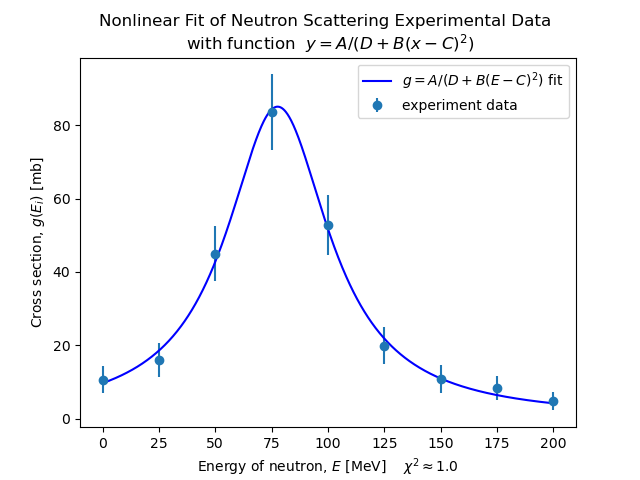
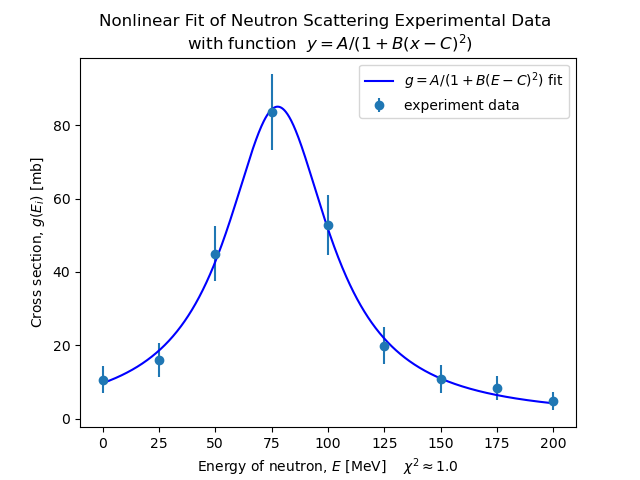
Assignment 3 parts 3, 4, 5.

diff --git a/03/03_03_test_quadratic_polynomial.py b/03/03_03_test_quadratic_polynomial.py
@@ -8,9 +8,8 @@
 from pylab import *
 from scipy.optimize import curve_fit   # chi squared fitting
 
-def func(x,a,b,c,d):   # define functional form
-    return a/(d+b*(x-c)**2)
-    # return a + b*x + c*x*x
+def func(x,a,b,c):   # define functional form
+    return a + b*x + c*x*x
 
 NMAX = 1000  # max number of input points
 
@@ -27,42 +26,41 @@ inputfile.close()
 # print(r)
 
 m = 0
-k = 1.13  # manually adjusted
 for line in r:
     print(line)
     s = line.split() # split line and split into list of items(assume items separated by spaces)
     xin[m] = s[0] # first number in each line is the x value
     yin[m] = s[1]
-    sig[m] = k*sqrt(yin[m]) # was sig[m] = s[2]
+    sig[m] = sqrt(yin[m]) # was sig[m] = s[2]
     m+=1         # m is total number of input data points
                  # will be stored in xin[0]..xin[n-1],yin[0]..yin[n-1]
 
-init_abcd = [80,1,75,1]
 
-popt,pcov = curve_fit(func, xin[0:m], yin[0:m], p0=init_abcd, sigma=sig[0:m])
 
-print("best fit parameters a,b,c,d =", popt)
+popt,pcov = curve_fit(func, xin[0:m], yin[0:m], p0=[1,2,0], sigma=sig[0:m])
+
+print("best fit parameters a,b,c =", popt)
 
 print("covariance matrix for the parameters a,b,c =\n",pcov)
 
-print("uncertainties in parameters =",sqrt(abs(diag(pcov))))
+print("uncertainties in parameters =",sqrt(diag(pcov)))
 
 xvalues = linspace(0,200,1000)
-yvalues = func(xvalues, popt[0], popt[1], popt[2], popt[3])
+yvalues = func(xvalues, popt[0], popt[1], popt[2])
 
-chi2=0
-yfit = func(xin, popt[0], popt[1], popt[2], popt[3])
+chi2 = 0
+yfit = func(xin, popt[0], popt[1], popt[2])
 for i in range(0, m):
     sig2 = sig[i] * sig[i]
-    chi2 += ((yin[i] - yfit[i])**2)/sig2
+    chi2 += ((yin[i] - yfit[i]) ** 2) / sig2
 
 print('chi^2 = ', chi2)
 
 errorbar(xin[0:m],yin[0:m],sig[0:m],fmt="o",label="experiment data")
-plot(xvalues,yvalues,"b-",label=r'$ g = A / (D + B {(E-C)}^2 )$ fit')
-title('Nonlinear Fit of Neutron Scattering Experimental Data \n'+r' with function  $y = A / (D + B {(x-C)}^2 )$')
+plot(xvalues,yvalues,"b-",label="quadratic fit")
+title('Nonlinear Fit of Neutron Scattering Experimental Data \n'+r' with function  $y = A + B x + C x^2$')
 ylabel( 'Cross section, '+ r'$g(E_i)$ [mb]')
-xlabel( 'Energy of neutron, $E$ [MeV]   ' + r' $\chi^2 \approx $' + str(round(chi2,2)))
+xlabel( 'Energy of neutron, $E$ [MeV] '+ r'   $\chi^2 \approx $' + str(round(chi2,2)))
 legend(loc="upper right")
-savefig('03_03_abcd.png')
+savefig('03_03_test_quadratic_abc.png')
 show()

diff --git a/03/03_05.py b/03/03_05.py
@@ -8,8 +8,8 @@
 from pylab import *
 from scipy.optimize import curve_fit   # chi squared fitting
 
-def func(x,a,b,c):   # define functional form
-    return a/(1+b*(x-c)**2)
+def func(x,a,b,c,d):   # define functional form
+    return a/(d+b*(x-c)**2)
     # return a + b*x + c*x*x
 
 NMAX = 1000  # max number of input points
@@ -27,7 +27,7 @@ inputfile.close()
 # print(r)
 
 m = 0
-k = 1.13 # manually adjusted
+k = 1.13  # manually adjusted
 for line in r:
     print(line)
     s = line.split() # split line and split into list of items(assume items separated by spaces)
@@ -37,24 +37,32 @@ for line in r:
     m+=1         # m is total number of input data points
                  # will be stored in xin[0]..xin[n-1],yin[0]..yin[n-1]
 
-init_abc = [80,1,75]
+init_abcd = [80,1,75,1]
 
-popt,pcov = curve_fit(func, xin[0:m], yin[0:m], p0=init_abc, sigma=sig[0:m])
+popt,pcov = curve_fit(func, xin[0:m], yin[0:m], p0=init_abcd, sigma=sig[0:m])
 
-print("best fit parameters a,b,c =", popt)
+print("best fit parameters a,b,c,d =", popt)
 
-print("covariance matrix for the parameters a,b,c =\n",pcov)
+print("covariance matrix for the parameters a,b,c,d =\n",pcov)
 
-print("uncertainties in parameters =", sqrt(abs(diag(pcov))))
+print("uncertainties in parameters =",sqrt(abs(diag(pcov))))
 
 xvalues = linspace(0,200,1000)
-yvalues = func(xvalues, popt[0], popt[1], popt[2])
+yvalues = func(xvalues, popt[0], popt[1], popt[2], popt[3])
+
+chi2=0
+yfit = func(xin, popt[0], popt[1], popt[2], popt[3])
+for i in range(0, m):
+    sig2 = sig[i] * sig[i]
+    chi2 += ((yin[i] - yfit[i])**2)/sig2
+
+print('chi^2 = ', chi2)
 
 errorbar(xin[0:m],yin[0:m],sig[0:m],fmt="o",label="experiment data")
-plot(xvalues,yvalues,"b-",label=r'$ g = A / (1 + B {(E-C)}^2 )$ fit')
-title('Nonlinear Fit of Neutron Scattering Experimental Data \n'+r' with function  $y = A / (1 + B {(x-C)}^2 )$')
+plot(xvalues,yvalues,"b-",label=r'$ g = A / (D + B {(E-C)}^2 )$ fit')
+title('Nonlinear Fit of Neutron Scattering Experimental Data \n'+r' with function  $y = A / (D + B {(x-C)}^2 )$')
 ylabel( 'Cross section, '+ r'$g(E_i)$ [mb]')
-xlabel( 'Energy of neutron, $E$ [MeV]   ')
+xlabel( 'Energy of neutron, $E$ [MeV]   ' + r' $\chi^2 \approx $' + str(round(chi2,2)))
 legend(loc="upper right")
-savefig('03_03.png')
+savefig('03_05.png')
 show()

diff --git a/03/03_04.py b/03/03_04.py
@@ -8,8 +8,8 @@
 from pylab import *
 from scipy.optimize import curve_fit   # chi squared fitting
 
-def func(x,a,b,c,d):   # define functional form
-    return a/(d+b*(x-c)**2)
+def func(x,a,b,c):   # define functional form
+    return a/(1+b*(x-c)**2)
     # return a + b*x + c*x*x
 
 NMAX = 1000  # max number of input points
@@ -37,21 +37,21 @@ for line in r:
     m+=1         # m is total number of input data points
                  # will be stored in xin[0]..xin[n-1],yin[0]..yin[n-1]
 
-init_abcd = [80,1,75,1]
+init_abc = [80,1,75]
 
-popt,pcov = curve_fit(func, xin[0:m], yin[0:m], p0=init_abcd, sigma=sig[0:m])
+popt,pcov = curve_fit(func, xin[0:m], yin[0:m], p0=init_abc, sigma=sig[0:m])
 
 print("best fit parameters a,b,c =", popt)
 
-print("covariance matrix for the parameters a,b,c,d =\n",pcov)
+print("covariance matrix for the parameters a,b,c =\n",pcov)
 
 print("uncertainties in parameters =", sqrt(abs(diag(pcov))))
 
 xvalues = linspace(0,200,1000)
-yvalues = func(xvalues, popt[0], popt[1], popt[2], popt[3])
+yvalues = func(xvalues, popt[0], popt[1], popt[2])
 
 chi2=0
-yfit = func(xin, popt[0], popt[1], popt[2], popt[3])
+yfit = func(xin, popt[0], popt[1], popt[2])
 for i in range(0, m):
     sig2 = sig[i] * sig[i]
     chi2 += ((yin[i] - yfit[i])**2)/sig2
@@ -59,8 +59,8 @@ for i in range(0, m):
 print('chi^2 = ', chi2)
 
 errorbar(xin[0:m],yin[0:m],sig[0:m],fmt="o",label="experiment data")
-plot(xvalues,yvalues,"b-",label=r'$ g = A / (D + B {(E-C)}^2 )$ fit')
-title('Nonlinear Fit of Neutron Scattering Experimental Data \n'+r' with function  $y = A / (D + B {(x-C)}^2 )$')
+plot(xvalues,yvalues,"b-",label=r'$ g = A / (1 + B {(E-C)}^2 )$ fit')
+title('Nonlinear Fit of Neutron Scattering Experimental Data \n'+r' with function  $y = A / (1 + B {(x-C)}^2 )$')
 ylabel( 'Cross section, '+ r'$g(E_i)$ [mb]')
 xlabel( 'Energy of neutron, $E$ [MeV]   ' + r' $\chi^2 \approx $' + str(round(chi2,2)))
 legend(loc="upper right")
